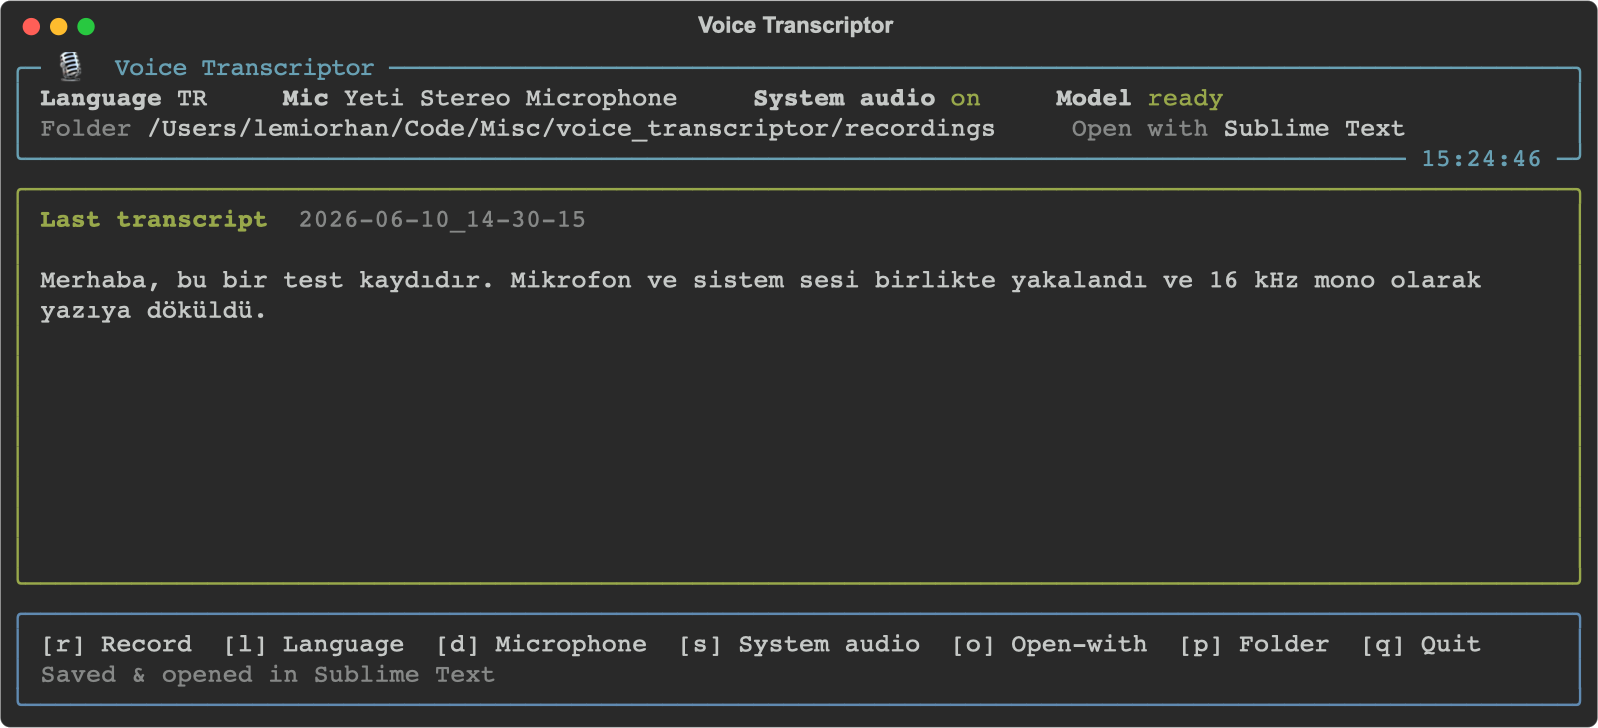
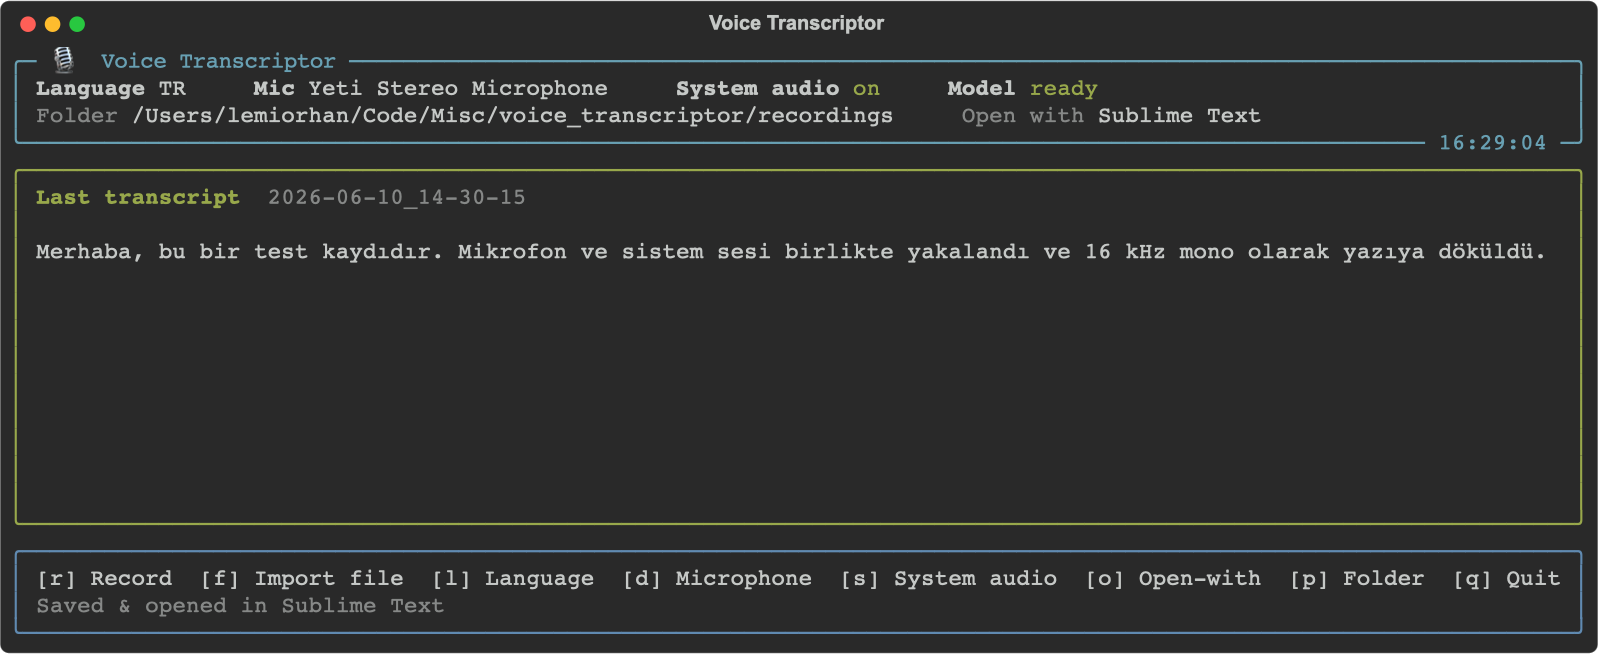
Add 'Import file' feature: transcribe an existing mp4/mov/wav/mp3/m4a
Press 'f' to pick a media file via the native macOS file picker (osascript
'choose file'); its audio is extracted with ffmpeg into a new timestamped project
folder as audio.wav (16 kHz mono) and transcribed exactly like a recording
(saved transcription.txt + auto-open).

- New helpers: _choose_media_file (native picker), _extract_audio (ffmpeg ->
  16 kHz mono wav), _import_file (full flow), and _transcribe_and_save (shared by
  recording and import).
- Home key 'f' + footer entry; reuses the 'Preparing…' screen for picker/extract
  status. ffmpeg is required only for this feature.
- README/CHANGELOG updated; regenerated the home screenshot (footer now shows
  [f] Import file), kept transparent + cropped.

Verified: _extract_audio for wav/mp3/mp4 (->16 kHz mono) + missing-file error;
the full import flow (mocked picker/transcribe) writes audio.wav + transcription.txt
and updates state; cancel and unsupported-extension paths.

diff --git a/meeting-transcriptor.py b/meeting-transcriptor.py
@@ -507,6 +507,53 @@ def _open_in_app(app, path):
         return str(e)
 
 
+# Importable external media: audio is extracted from these and transcribed.
+IMPORT_EXTS = (".mp4", ".mov", ".wav", ".mp3", ".m4a")
+
+
+def _choose_media_file():
+    """Open the native macOS file picker for an audio/video file.
+    Returns the chosen POSIX path, or None if cancelled/unavailable."""
+    osa = shutil.which("osascript")
+    if not osa:
+        return None
+    script = (
+        'set theFile to choose file with prompt "Select an audio or video file to transcribe" '
+        'of type {"mp4","mov","wav","mp3","m4a","public.movie","public.audio"}\n'
+        'POSIX path of theFile'
+    )
+    try:
+        res = subprocess.run([osa, "-e", script], capture_output=True, text=True)
+        if res.returncode != 0:
+            return None  # user cancelled or an error occurred
+        path = res.stdout.strip()
+        return path or None
+    except Exception:
+        return None
+
+
+def _extract_audio(src, dest_wav, target_fs=16000):
+    """Extract/convert `src` media to a 16 kHz mono PCM WAV at `dest_wav` using
+    ffmpeg. Returns None on success or an error string."""
+    ffmpeg = shutil.which("ffmpeg")
+    if not ffmpeg:
+        return "ffmpeg not found — install it (e.g. 'brew install ffmpeg')"
+    try:
+        res = subprocess.run(
+            [ffmpeg, "-y", "-i", str(src), "-vn", "-ac", "1", "-ar", str(target_fs),
+             "-c:a", "pcm_s16le", str(dest_wav)],
+            stdout=subprocess.DEVNULL, stderr=subprocess.PIPE, text=True,
+        )
+        if res.returncode != 0:
+            tail = (res.stderr or "").strip().splitlines()
+            return f"ffmpeg failed: {tail[-1] if tail else res.returncode}"
+        if not Path(dest_wav).exists() or Path(dest_wav).stat().st_size == 0:
+            return "ffmpeg produced no audio (no audio track?)"
+        return None
+    except Exception as e:
+        return str(e)
+
+
 def pick_device():
     """transformers pipeline için uygun cihazı seçer (CUDA > MPS > CPU)."""
     import torch
@@ -682,10 +729,10 @@ def _tui_body(state):
         return Panel(Text.from_markup(_meters_markup(state.recorders)),
                      title=title, title_align="left", border_style="red")
     if state.mode == "preparing":
-        msg = (f"[bold yellow]Preparing to record…[/bold yellow]\n\n"
+        msg = (f"[bold yellow]Preparing…[/bold yellow]\n\n"
                f"[dim]{state.status}[/dim]\n\n"
-               f"[dim]The first run may compile a helper or ask for a permission; "
-               f"recording starts as soon as this finishes.[/dim]")
+               f"[dim]The first run may compile a helper, ask for a permission, or "
+               f"load a model; this can take a moment.[/dim]")
         return Panel(Text.from_markup(msg), title="Please wait", border_style="yellow")
     if state.mode == "transcribing":
         msg = ("[bold yellow]Transcribing…[/bold yellow]\n\n"
@@ -729,7 +776,7 @@ def _tui_body(state):
 
 def _tui_footer(state):
     keymap = {
-        "home": "[r] Record  [l] Language  [d] Microphone  [s] System audio  [o] Open-with  [p] Folder  [q] Quit",
+        "home": "[r] Record  [f] Import file  [l] Language  [d] Microphone  [s] System audio  [o] Open-with  [p] Folder  [q] Quit",
         "preparing": "please wait…",
         "recording": "[q] Stop & transcribe",
         "transcribing": "working…",
@@ -844,7 +891,13 @@ def _stop_and_transcribe(state, live):
             pass
         state.mode = "home"
         return
-    # Show the transcribing screen before the (blocking) model call.
+    _transcribe_and_save(state, live, state.project_dir, audio_path)
+
+
+def _transcribe_and_save(state, live, project_dir, audio_path):
+    """Transcribe `audio_path` (in `project_dir`), save transcription.txt, update
+    the UI, and open the transcript in the chosen app. Shared by recording and
+    file-import flows."""
     state.mode = "transcribing"
     state.status = "Transcribing…"
     live.update(_tui_render(state))
@@ -854,7 +907,7 @@ def _stop_and_transcribe(state, live):
         state.status = f"Transcription error: {e}"
         state.mode = "home"
         return
-    transcript_path = state.project_dir / "transcription.txt"
+    transcript_path = project_dir / "transcription.txt"
     try:
         with open(transcript_path, "w", encoding="utf-8") as f:
             f.write(text + "\n")
@@ -863,14 +916,55 @@ def _stop_and_transcribe(state, live):
         state.mode = "home"
         return
     state.last_transcript = text
-    state.last_project = state.project_dir
-    state.status = f"Saved to {state.project_dir.name}"
-    # Open the transcript in the chosen app (if any).
+    state.last_project = project_dir
+    state.status = f"Saved to {project_dir.name}"
     if state.open_app:
         err = _open_in_app(state.open_app, transcript_path)
         state.status = (f"Saved — could not open in {state.open_app}"
                         if err else f"Saved & opened in {state.open_app}")
     state.mode = "home"
+
+
+def _import_file(state, live):
+    """Let the user pick an external media file, extract its audio into a new
+    project folder, and transcribe it like a recording."""
+    state.mode = "preparing"
+    state.status = "Opening file picker…"
+    live.update(_tui_render(state))
+
+    src = _choose_media_file()
+    if not src:
+        state.status = "Import cancelled."
+        state.mode = "home"
+        return
+    ext = os.path.splitext(src)[1].lower()
+    if ext not in IMPORT_EXTS:
+        state.status = f"Unsupported file type '{ext}' (use mp4/mov/wav/mp3/m4a)."
+        state.mode = "home"
+        return
+
+    project_dir = state.base_path / datetime.now().strftime("%Y-%m-%d_%H-%M-%S")
+    try:
+        project_dir.mkdir(parents=True, exist_ok=True)
+    except Exception as e:
+        state.status = f"Folder error: {e}"
+        state.mode = "home"
+        return
+
+    state.status = f"Extracting audio from {os.path.basename(src)}…"
+    live.update(_tui_render(state))
+    audio_path = project_dir / "audio.wav"
+    err = _extract_audio(src, audio_path)
+    if err:
+        state.status = f"Import failed: {err}"
+        try:
+            project_dir.rmdir()
+        except Exception:
+            pass
+        state.mode = "home"
+        return
+
+    _transcribe_and_save(state, live, project_dir, audio_path)
 
 
 def _tui_handle_key(key, state, live):
@@ -881,6 +975,8 @@ def _tui_handle_key(key, state, live):
             return False
         if key in ("r", "R", " "):
             _start_recording(state, live)
+        elif key in ("f", "F"):
+            _import_file(state, live)
         elif key in ("l", "L"):
             state.language = "en" if state.language == "tr" else "tr"
             state.cfg["language"] = state.language

diff --git a/README.md b/README.md
@@ -22,6 +22,9 @@ machine; no audio leaves your computer.
 - **Record mic + system audio together** — your voice (microphone) and the
   computer's output (a call, a video) are captured simultaneously and mixed into
   one mono track for transcription.
+- **Transcribe an existing file** — import an `mp4`, `mov`, `wav`, `mp3` or `m4a`
+  file (native file picker); its audio is extracted into a new project folder and
+  transcribed just like a recording.
 - **System audio without BlackHole** — uses a native macOS **Core Audio process
   tap**, so playback keeps playing through your speakers/headphones normally. No
   virtual cable, no Multi-Output Device, no rerouting.
@@ -50,6 +53,8 @@ machine; no audio leaves your computer.
 - **Xcode / Command Line Tools (`swiftc`)** — only needed for the optional
   system-audio capture (a tiny Swift helper is compiled on first use). Plain
   microphone recording does not require it.
+- **ffmpeg** — only needed to import/transcribe existing media files
+  (`brew install ffmpeg`). Recording does not require it.
 
 The first run downloads the transcription models (English ≈ 1.5 GB, Turkish
 ≈ 1.6 GB) and caches them; later runs are offline-capable for cached models.
@@ -88,6 +93,7 @@ The app opens a full-screen interface. Controls are single keypresses (no Enter)
 | Key | Action |
 |-----|--------|
 | `r` (or `Space`) | Start recording |
+| `f` | Import an existing audio/video file and transcribe it |
 | `q` | While recording: **stop & transcribe**. On the home screen: **quit** |
 | `l` | Toggle transcription language (TR ⇄ EN) |
 | `d` | Open the microphone picker (`1`–`9` to choose, `Esc` to cancel) |
@@ -110,6 +116,14 @@ While recording, the panel shows a live **VU meter** for each source:
 When you stop, the app shows a "Transcribing…" panel (the model loads on first
 use), then displays the transcript, saves it, and (optionally) opens it in your
 chosen app.
+
+### Transcribe an existing file
+
+Press `f` to transcribe a file you already have. A native file picker opens; choose
+an `mp4`, `mov`, `wav`, `mp3` or `m4a` file. Its audio is extracted (via ffmpeg)
+into a **new project folder** as `audio.wav` (16 kHz mono) and transcribed using
+the current language — identical to a recording, including the saved
+`transcription.txt` and auto-open.
 
 ### Open the transcript in an app
 
@@ -210,8 +224,9 @@ requirements.txt
 docs/superpowers/specs/        # design notes
 ```
 
-There is also `mp4-transcriptor.py`, an unrelated helper for transcribing MP4
-files (not part of the TUI app).
+There is also a standalone `mp4-transcriptor.py` helper that predates the in-app
+**Import file** feature (`f`); for most uses, importing a file in the app is the
+simpler path.
 
 ---
 

diff --git a/CHANGELOG.md b/CHANGELOG.md
@@ -24,6 +24,9 @@ All notable changes to this project are documented here. The format is based on
 - **Open the transcript in an app** after each run, chosen from a filterable list
   of installed apps (`o`). Defaults to Sublime Text if installed; can be disabled.
   Stored as `open_app` in `config.json`.
+- **Import an existing media file** (`f`): pick an `mp4`/`mov`/`wav`/`mp3`/`m4a`
+  via the native file picker; its audio is extracted with ffmpeg into a new
+  project folder (`audio.wav`, 16 kHz mono) and transcribed like a recording.
 - Per-language transcription models: `selimc/whisper-large-v3-turbo-turkish`
   (Turkish, Transformers) and `ggml-distil-large-v3` (English, whisper.cpp).
 - Automatic device selection for models (CUDA → Apple Silicon MPS/Metal → CPU).